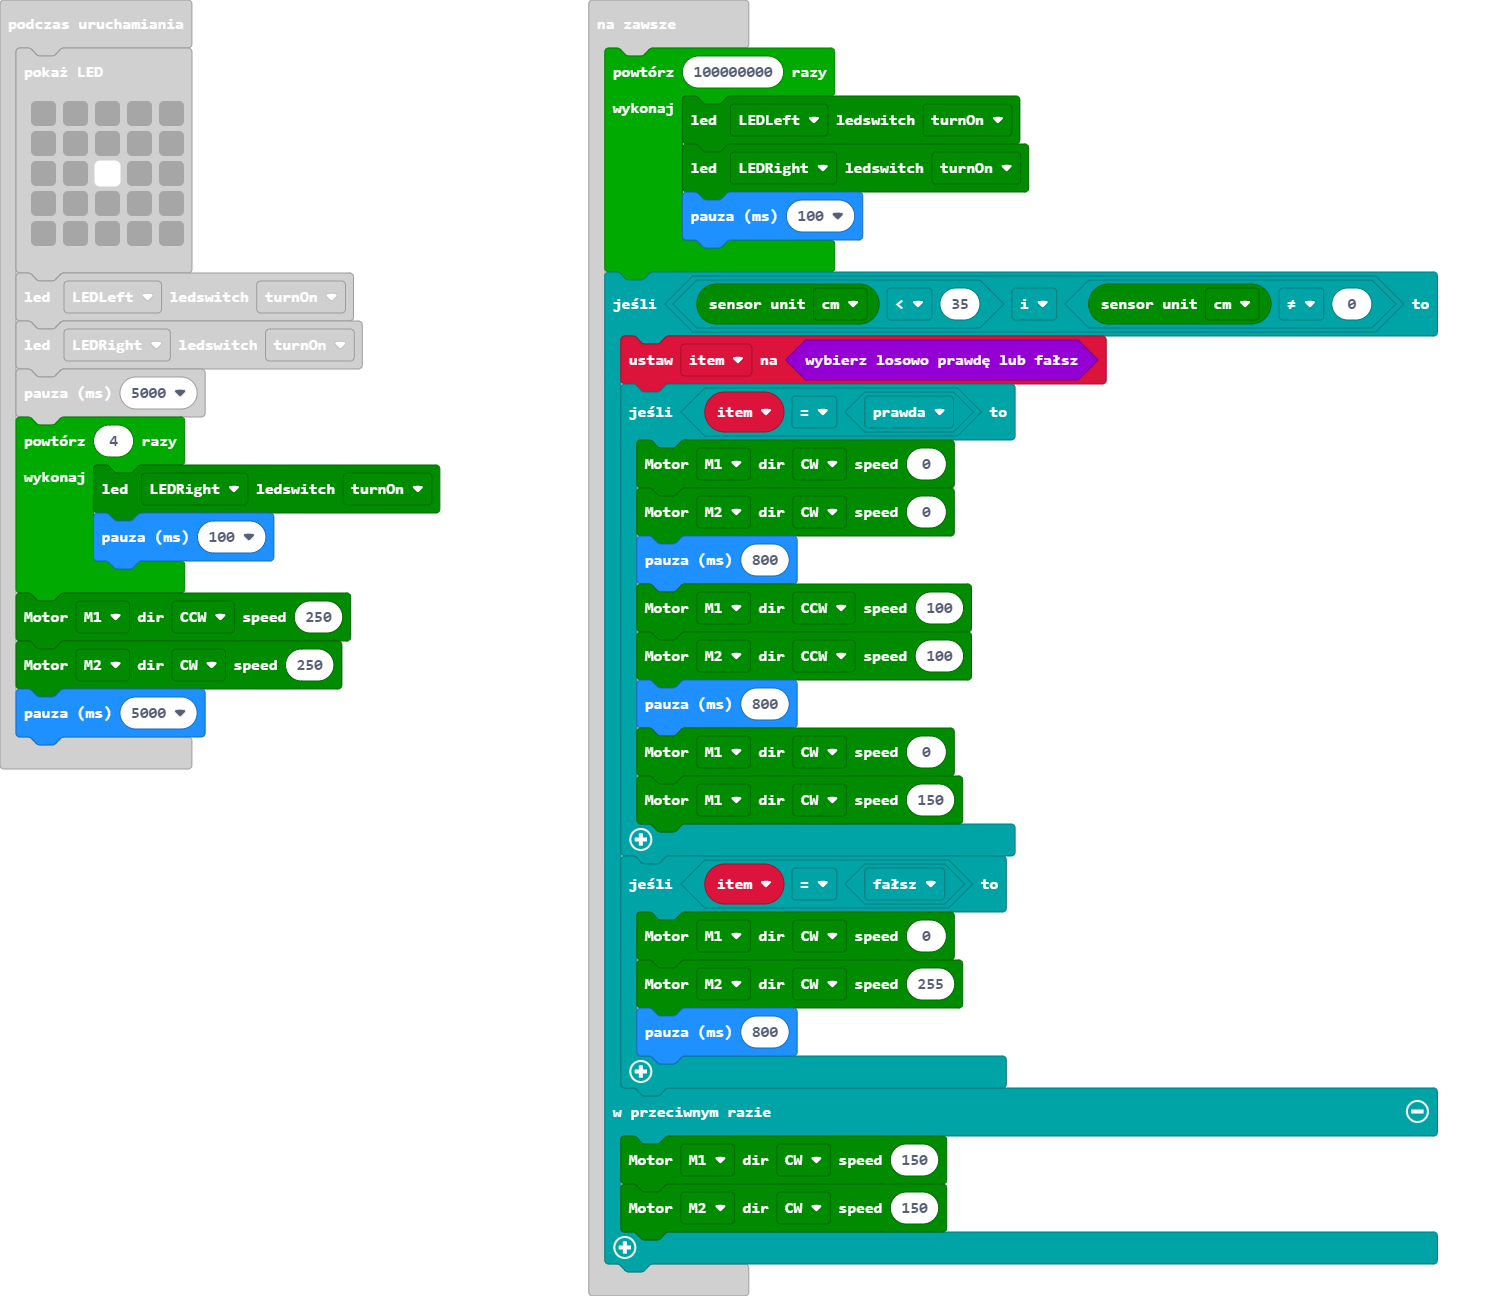
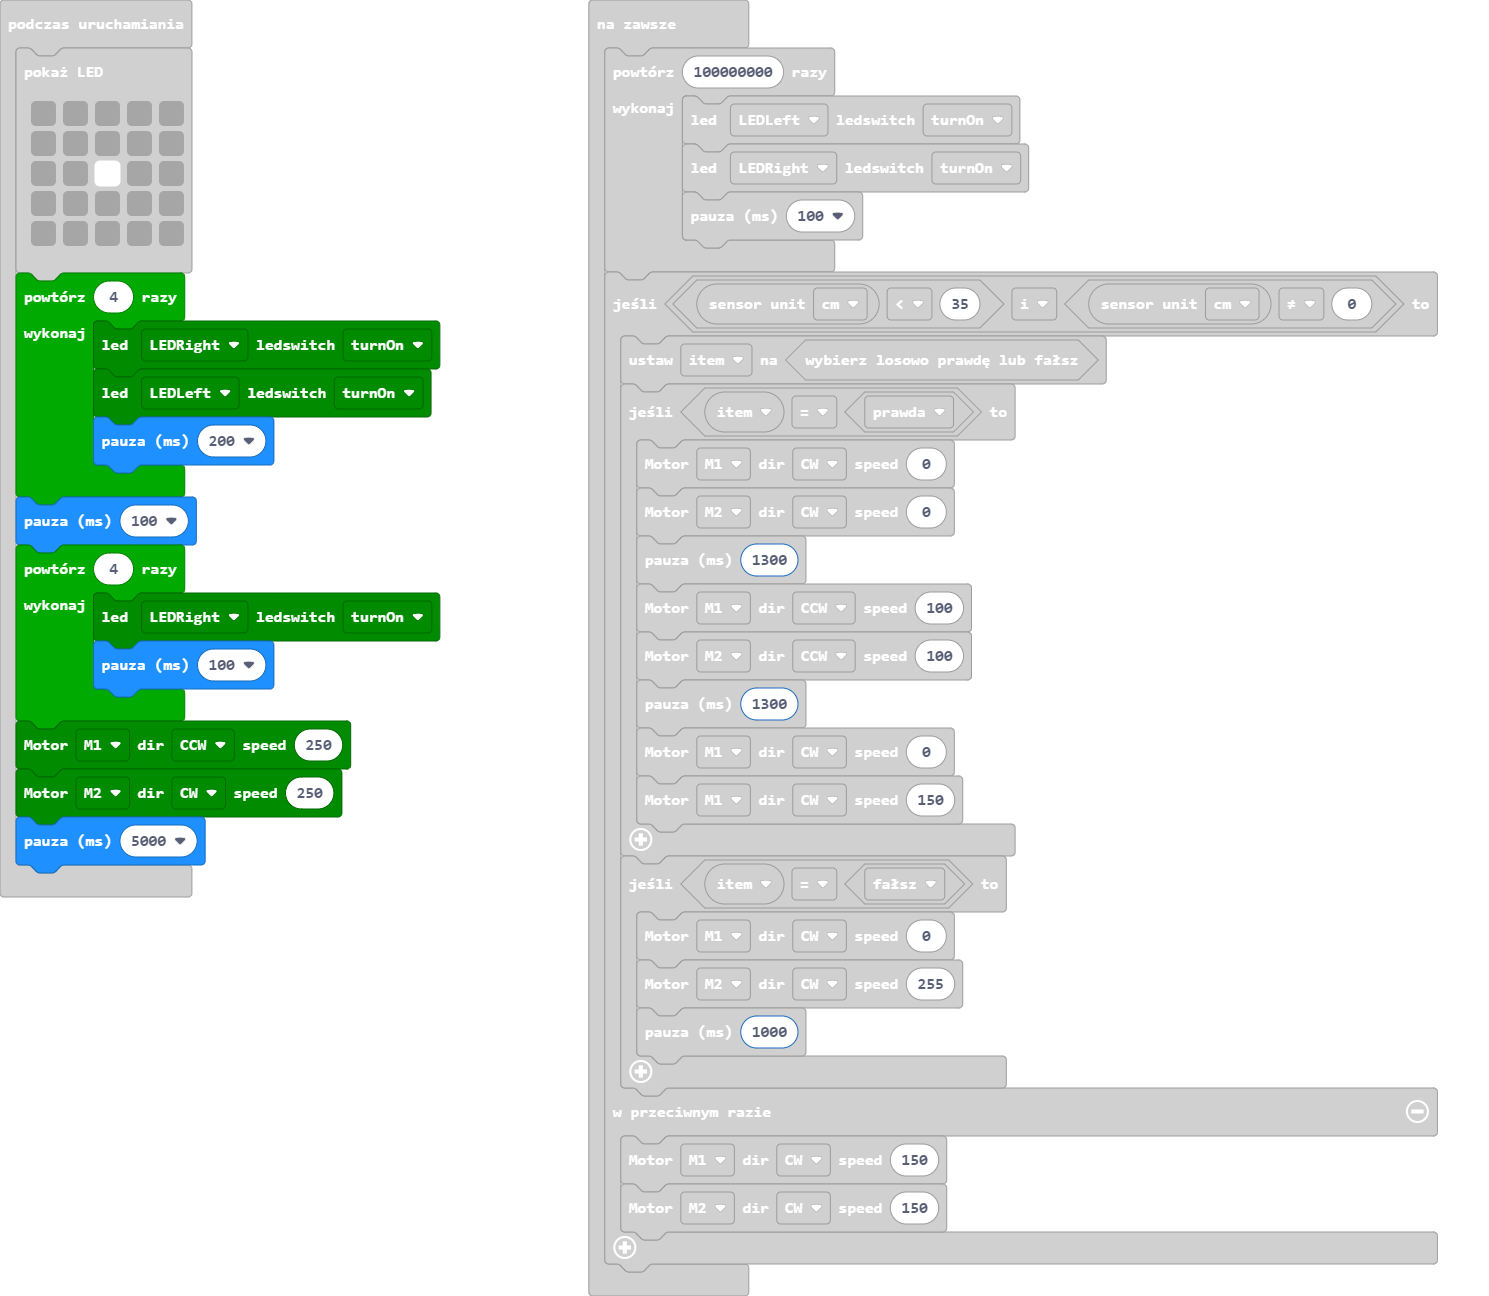
Aktualizacja main.blocks, main.ts

diff --git a/main.ts b/main.ts
@@ -6,9 +6,12 @@ basic.showLeds(`
     . . . . .
     . . . . .
     `)
-maqueen.writeLED(maqueen.LED.LEDLeft, maqueen.LEDswitch.turnOn)
-maqueen.writeLED(maqueen.LED.LEDRight, maqueen.LEDswitch.turnOn)
-basic.pause(5000)
+for (let index = 0; index < 4; index++) {
+    maqueen.writeLED(maqueen.LED.LEDRight, maqueen.LEDswitch.turnOn)
+    maqueen.writeLED(maqueen.LED.LEDLeft, maqueen.LEDswitch.turnOn)
+    basic.pause(200)
+}
+basic.pause(100)
 for (let index = 0; index < 4; index++) {
     maqueen.writeLED(maqueen.LED.LEDRight, maqueen.LEDswitch.turnOn)
     basic.pause(100)
@@ -27,17 +30,17 @@ basic.forever(function () {
         if (item == true) {
             maqueen.MotorRun(maqueen.aMotors.M1, maqueen.Dir.CW, 0)
             maqueen.MotorRun(maqueen.aMotors.M2, maqueen.Dir.CW, 0)
-            basic.pause(800)
+            basic.pause(1300)
             maqueen.MotorRun(maqueen.aMotors.M1, maqueen.Dir.CCW, 100)
             maqueen.MotorRun(maqueen.aMotors.M2, maqueen.Dir.CCW, 100)
-            basic.pause(800)
+            basic.pause(1300)
             maqueen.MotorRun(maqueen.aMotors.M1, maqueen.Dir.CW, 0)
             maqueen.MotorRun(maqueen.aMotors.M1, maqueen.Dir.CW, 150)
         }
         if (item == false) {
             maqueen.MotorRun(maqueen.aMotors.M1, maqueen.Dir.CW, 0)
             maqueen.MotorRun(maqueen.aMotors.M2, maqueen.Dir.CW, 255)
-            basic.pause(800)
+            basic.pause(1000)
         }
     } else {
         maqueen.MotorRun(maqueen.aMotors.M1, maqueen.Dir.CW, 150)
